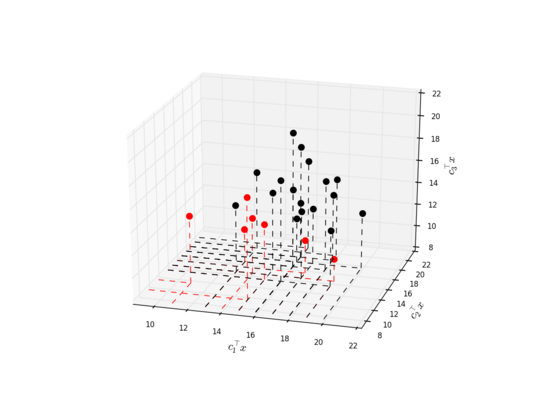
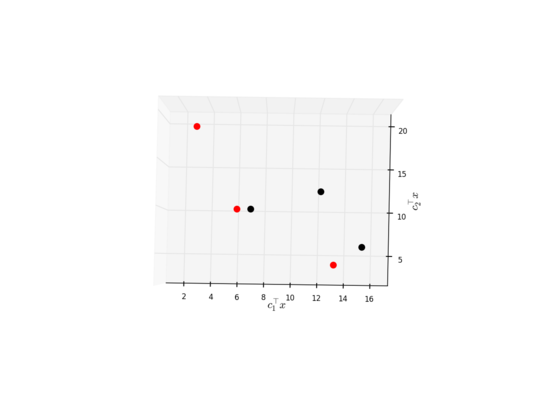
added section 'basic_usage' in documentation

diff --git a/doc/source/basic_usage.rst b/doc/source/basic_usage.rst
@@ -1,4 +1,68 @@
 Basic usage
 ===========
 
+PolyNondom expects either a feasible domain and corresponding
+objectives or pre-computed points in objective space.
 
+Usage with a feasible domain and objectives
+++++++++++++++++++++++++++++++++++
+
+Let's assume we want to compute and visualise the non-dominated points
+of an assignment problem (with 4 agents and 4 jobs). Furthermore, let
+*/tmp/objs.txt* be the file with the objective functions having the
+following content:
+
+| [3, 6, 4, 5, 2, 3, 5, 4, 3, 5, 4, 2, 4, 5, 3, 6]
+| [2, 3, 5, 4, 5, 3, 4, 3, 5, 2, 6, 4, 4, 5, 2, 5]
+| [4, 2, 4, 2, 4, 2, 4, 6, 4, 2, 6, 3, 2, 4, 5, 3]
+|
+   
+Using the python shell we could do the following:
+
+``import polynondom as pnd``
+
+``objs = pnd.Objectives.read("/tmp/objs.txt", delimiter=',')``  # create *Objectives* instance
+
+``ad = pnd.AssignmentDomain(4)`` # create *AssignmentDomain* instance
+
+``poly = pnd.PolyNondom.compute_points(ad, objs)`` # create *PolyNondom* instance
+
+``print("computed", poly)``  # print points sets to shell
+
+``poly.visualise('n', my_color="blue")``  # visualise non-dominated points
+
+``poly.save_figure("/tmp/my_figure.png", dpi=150, azimuth=96, elevation=21)`` # save visualisation to file
+
+The result is:
+
+.. image:: nondom_points.png
+
+Usage with pre-computed points
+++++++++++++++++++++++++++++++
+   
+Let's assume we have pre-computed (feasible) points of a bi-criteria
+knapsack problem and want to visualise the points. Let
+*/tmp/points.txt* be the file with the pre-computed points having the
+following content:
+
+| [ 13 4 ] 
+| [ 15 6 ] 
+| [ 7 10 ] 
+| [ 3 19 ]
+| [ 6 10 ]
+| [ 12 12 ]
+| 
+
+Using the python shell we could do the following:
+
+``import polynondom as pnd``
+
+``poly = pns.PolyNondom.read_points("/tmp/points.txt", delimiter=' ')`` # read points from file
+
+``poly.visualise('nd')`` # visualise non-dominated points (in red) and dominated points (in black)
+
+``poly.save_figure('/tmp/points.png', azimuth=-89, elevation=88, dpi=150)`` # save visualisation to file
+
+The result is:
+
+.. image:: points.png

diff --git a/doc/source/glossary.rst b/doc/source/glossary.rst
@@ -18,8 +18,9 @@ dominated point
 
 polynon-dominated point
     A non-dominated point *y* is polynon-dominated (w.r.t. the underlying
-    multi-objective problem) if the projection of the point is also non-dominated
-    for multi-objective problem where one of the
+    multi-objective problem) if the projection of the point is also
+    non-dominated for the given multi-objective problem where one of
+    the objectives was neglected
 
 .. _monond-label:
 

diff --git a/doc/source/introduction.rst b/doc/source/introduction.rst
@@ -1,7 +1,7 @@
 Introduction
 ============
    
-PolyNondom_ is a small tool that helps to enumerate and visualise
+PolyNondom_ is a tool that helps to enumerate and visualise
 different sets of points, in particular, different subsets of
 non-dominated points. It is not supposed to compete with proper solvers
 for multi-criteria integer optimisation but to help in developing and
